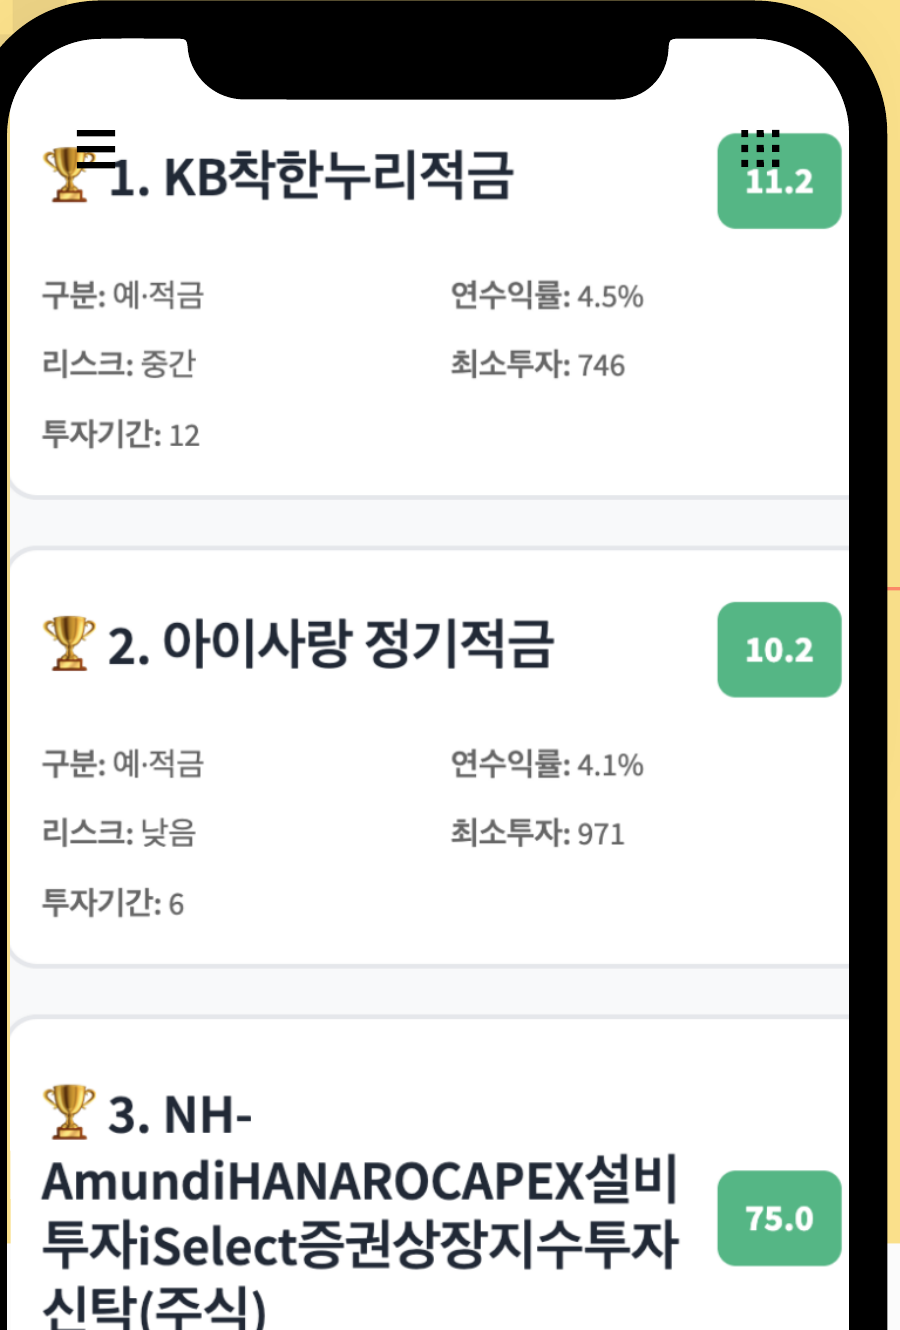
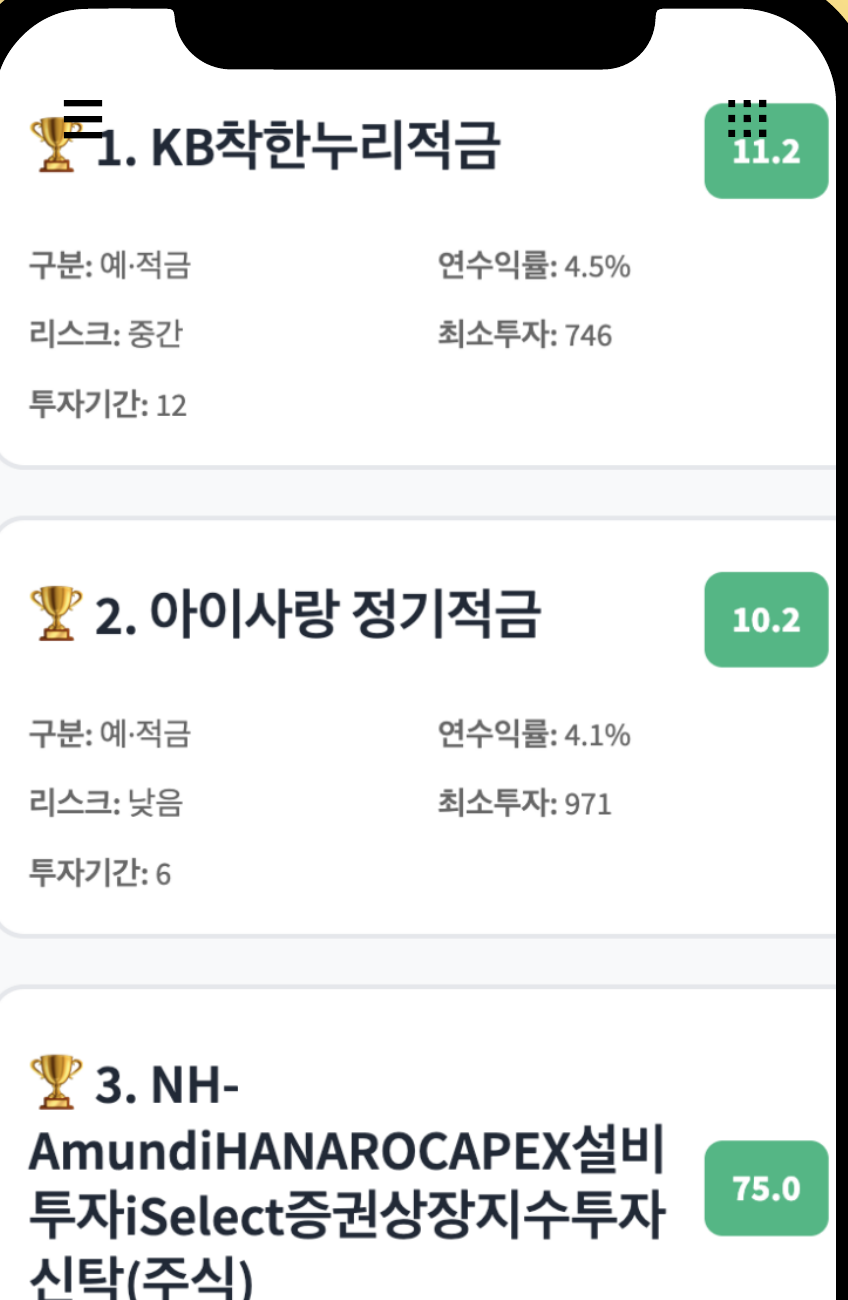
fix: 수상 프로젝트 정정 + 노후애 화면에서 슬라이드 배경 제거
- 대상(노원, 2025.04.09) 수상작을 노후애 → Stay-view 로 정정
- 우수상(강남, 2025.11.30) 수상작을 Stay-view → 또박톡 으로 정정
- Summary 3줄과 walkthrough 3곳의 수상 표기를 함께 정정
- 대상 행 링크를 노후애 발표자료 → stayview 저장소로 교체
  (수상작과 자료가 어긋나지 않도록)
- 노후애 화면 4장을 폰 영역만 남도록 재크롭 — 노란 슬라이드
  배경이 그대로 딸려 오던 문제
- walkthrough 노후애 헤더를 KB국민은행 Future Finance A.I Challenge 로

Changed region(s): [[0.0, 0.0, 1.0, 1.0], [0.4906, 0.1846, 0.7358, 0.3077], [0.4906, 0.5538, 0.7358, 0.6462]]

diff --git a/index.html b/index.html
@@ -80,15 +80,15 @@
           </li>
           <li class="flex gap-2">
             <span class="text-zinc-300 mt-1">—</span>
-            <span>Whisper Small 파인튜닝으로 고령층 음성 <strong class="text-zinc-800">WER 21.2%</strong> 달성 (목표 25% 이하) — 의료 키워드 가중치 샘플링, 화자 분리 다수결 스무딩</span>
+            <span>Whisper Small 파인튜닝으로 고령층 음성 <strong class="text-zinc-800">WER 21.2%</strong> 달성 (목표 25% 이하) — 의료 키워드 가중치 샘플링, 화자 분리 다수결 스무딩 · 데이터분석기반 AI 프로젝트 공모전 우수상</span>
           </li>
           <li class="flex gap-2">
             <span class="text-zinc-300 mt-1">—</span>
-            <span>KoBERT 감성 분류 + LDA 토픽 + KoBART→Gemini 2단계 요약으로 리뷰 <strong class="text-zinc-800">11만 건</strong> 압축, 숙소 선택 시간 50% 단축 — 데이터분석기반 AI 프로젝트 공모전 우수상</span>
+            <span>KoBERT 감성 분류 + LDA 토픽 + KoBART→Gemini 2단계 요약으로 리뷰 <strong class="text-zinc-800">11만 건</strong> 압축, 숙소 선택 시간 50% 단축 — 머신러닝/딥러닝 프로젝트 공모전 <strong class="text-zinc-800">대상</strong></span>
           </li>
           <li class="flex gap-2">
             <span class="text-zinc-300 mt-1">—</span>
-            <span>TabNet feature attribution 기반 금융 상품 추천으로 추천 정확도 <strong class="text-zinc-800">+27%</strong> — 머신러닝/딥러닝 프로젝트 공모전 대상 / MediaPipe 온디바이스 자세 교정 정확도 20% → <strong class="text-zinc-800">70%</strong></span>
+            <span>TabNet feature attribution 기반 금융 상품 추천으로 추천 정확도 <strong class="text-zinc-800">+27%</strong>, 예상 연금액 계산과 노후 자산 시뮬레이션까지 구현 / MediaPipe 온디바이스 자세 교정 정확도 20% → <strong class="text-zinc-800">70%</strong></span>
           </li>
           <li class="flex gap-2">
             <span class="text-zinc-300 mt-1">—</span>
@@ -513,18 +513,18 @@
             <span class="w-16 shrink-0 font-semibold text-zinc-800">대상</span>
             <span class="flex-1 text-zinc-700">
               머신러닝/딥러닝 프로젝트 공모전
-              <span class="text-zinc-400 ml-2">— 노후애 · 코리아IT아카데미 노원</span>
+              <span class="text-zinc-400 ml-2">— Stay-view · 코리아IT아카데미 노원</span>
             </span>
-            <a href="slides/노후애.pdf" target="_blank" rel="noopener noreferrer" class="text-zinc-400 hover:text-zinc-700 transition-colors text-xs underline underline-offset-2 shrink-0">발표자료</a>
+            <a href="https://github.com/min03027/stayview" target="_blank" rel="noopener noreferrer" class="text-zinc-400 hover:text-zinc-700 transition-colors text-xs underline underline-offset-2 shrink-0">GitHub</a>
             <span class="text-zinc-400 shrink-0">2025.04.09</span>
           </div>
           <div class="flex items-center gap-4 text-sm">
             <span class="w-16 shrink-0 font-semibold text-zinc-800">우수상</span>
             <span class="flex-1 text-zinc-700">
               데이터분석기반 AI 프로젝트 공모전
-              <span class="text-zinc-400 ml-2">— Stay-view · 코리아IT아카데미 강남</span>
+              <span class="text-zinc-400 ml-2">— 또박톡 · 코리아IT아카데미 강남</span>
             </span>
-            <a href="https://github.com/min03027/stayview" target="_blank" rel="noopener noreferrer" class="text-zinc-400 hover:text-zinc-700 transition-colors text-xs underline underline-offset-2 shrink-0">GitHub</a>
+            <a href="walkthrough.html#ddobak" class="text-zinc-400 hover:text-zinc-700 transition-colors text-xs underline underline-offset-2 shrink-0">동작 보기</a>
             <span class="text-zinc-400 shrink-0">2025.11.30</span>
           </div>
         </div>

diff --git a/walkthrough.html b/walkthrough.html
@@ -84,7 +84,7 @@
         <section id="nohuae">
           <div class="flex items-baseline justify-between mb-1">
             <h2 class="text-xl font-semibold tracking-tight">노후애</h2>
-            <span class="text-sm text-zinc-400 shrink-0 ml-4">공모전 대상</span>
+            <span class="text-sm text-zinc-400 shrink-0 ml-4">KB국민은행 Future Finance A.I Challenge</span>
           </div>
           <p class="text-sm text-zinc-500 mb-6 leading-relaxed">
             9문항 설문으로 재무 유형을 진단하고, 예상 연금액 계산 · 맞춤 상품 추천 · 노후 자산 시뮬레이션까지 이어진다.
@@ -92,7 +92,7 @@
 
           <div class="grid grid-cols-2 sm:grid-cols-4 gap-3 mb-4">
             <figure>
-              <img src="assets/nohuae-persona.png" alt="설문과 재무 유형 진단 결과 화면" loading="lazy" class="w-full rounded-lg border border-zinc-200">
+              <img src="assets/nohuae-persona.png" alt="재무 유형 진단 결과 화면" loading="lazy" class="w-full rounded-lg border border-zinc-200">
               <figcaption class="text-xs text-zinc-400 mt-2">① 유형 진단</figcaption>
             </figure>
             <figure>
@@ -132,7 +132,7 @@
         <section id="stayview">
           <div class="flex items-baseline justify-between mb-1">
             <h2 class="text-xl font-semibold tracking-tight">Stay-view</h2>
-            <span class="text-sm text-zinc-400 shrink-0 ml-4">공모전 우수상</span>
+            <span class="text-sm text-zinc-400 shrink-0 ml-4">공모전 대상</span>
           </div>
           <p class="text-sm text-zinc-500 mb-6 leading-relaxed">
             지역과 호텔을 고르면 리뷰에서 뽑아낸 긍정·부정 요약과 항목별 점수를 한 화면에서 보여준다.
@@ -162,7 +162,10 @@
 
         <!-- 또박톡 -->
         <section id="ddobak">
-          <h2 class="text-xl font-semibold tracking-tight mb-1">또박톡</h2>
+          <div class="flex items-baseline justify-between mb-1">
+            <h2 class="text-xl font-semibold tracking-tight">또박톡</h2>
+            <span class="text-sm text-zinc-400 shrink-0 ml-4">공모전 우수상</span>
+          </div>
           <p class="text-sm text-zinc-500 mb-6 leading-relaxed">
             고령층의 대화를 실시간 자막으로 옮기고, 의료·공공 상담 내용을 쉬운 말 요약과 복약 체크리스트로 정리한다.
           </p>
